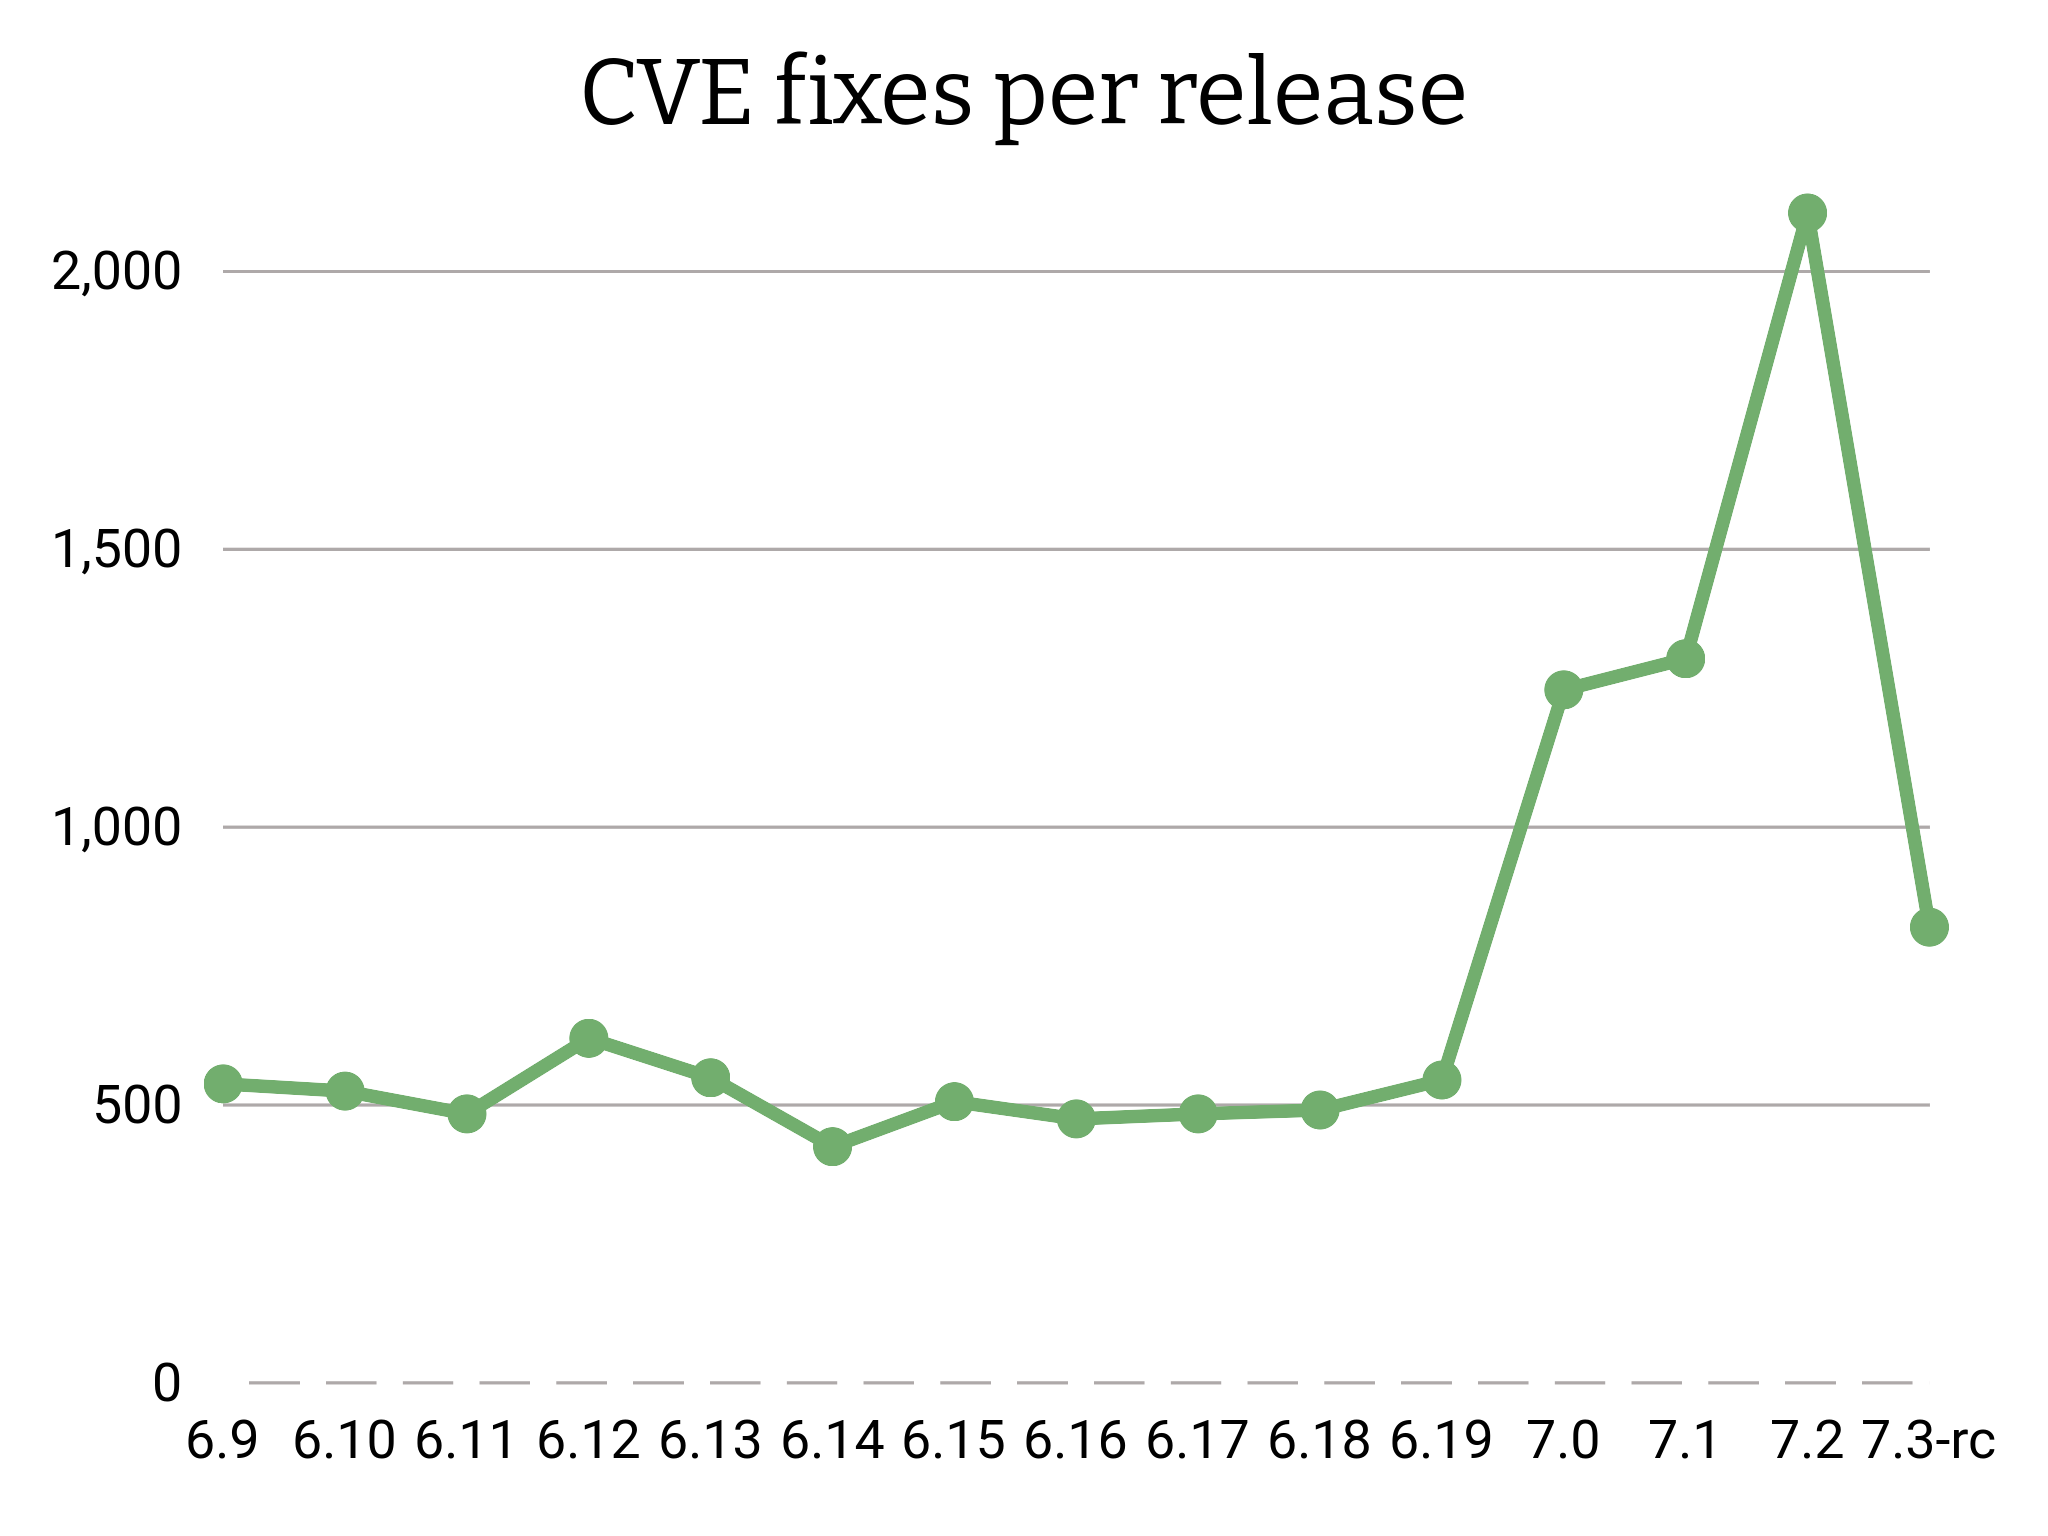
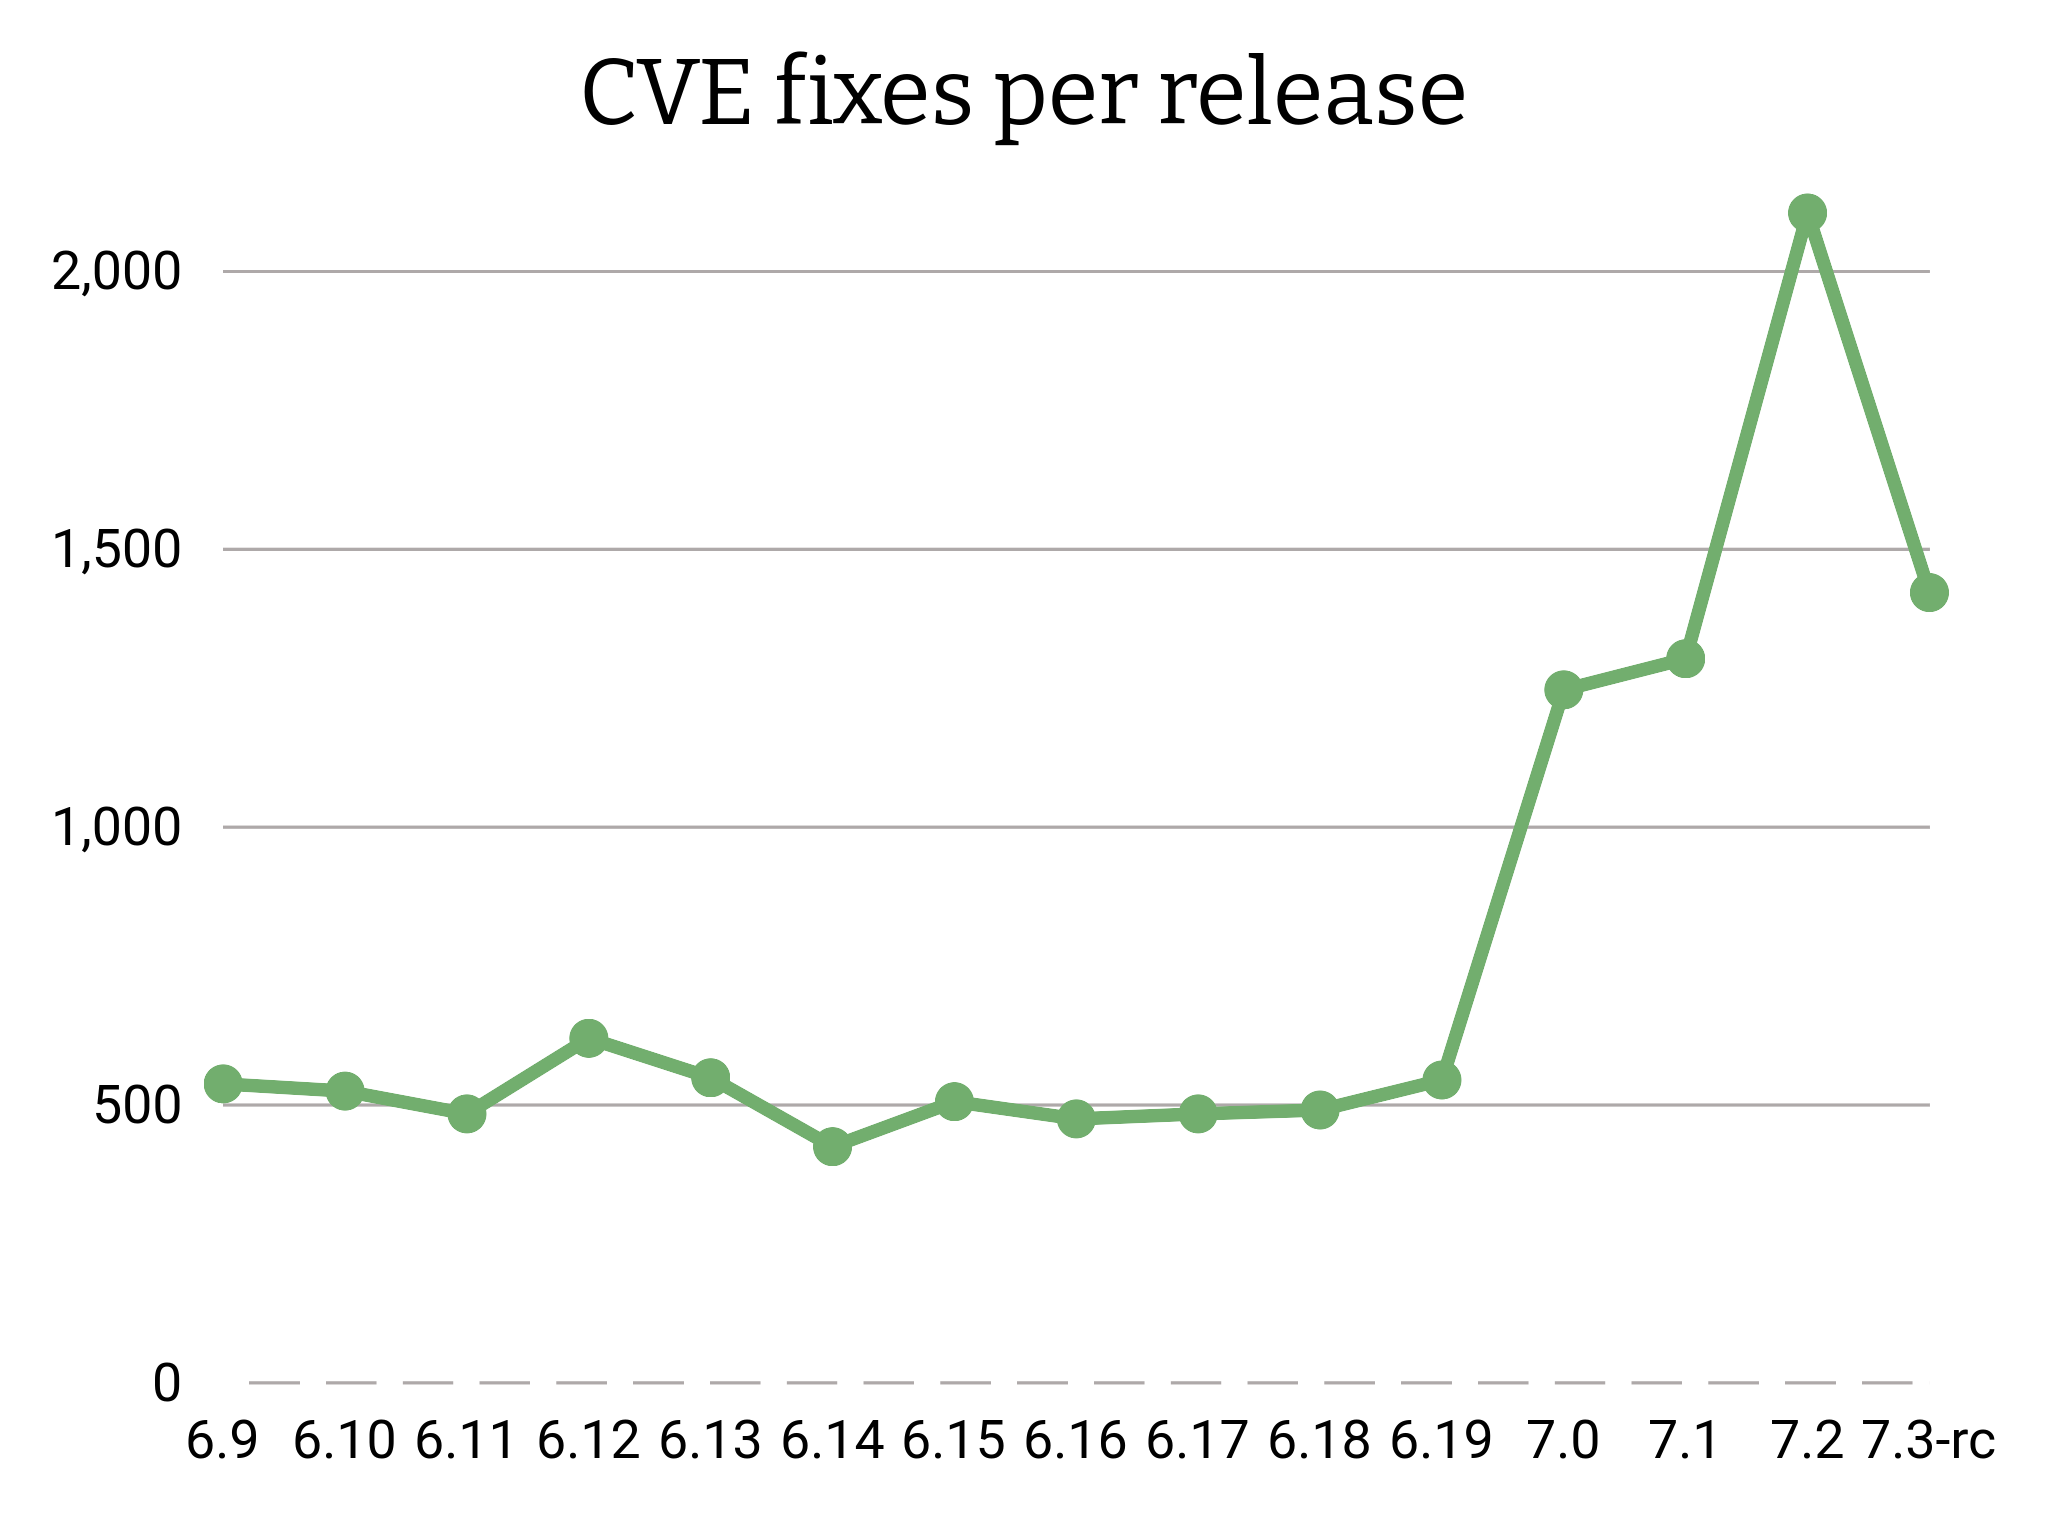
more graph updates

Changed region(s): [[0.875, 0.1562, 0.9688, 0.5625], [0.9375, 0.5625, 0.9688, 0.625]]

diff --git a/graphs/patches_per_release/cves_per_release.rb b/graphs/patches_per_release/cves_per_release.rb
@@ -48,7 +48,7 @@ g.data(' ', [
         1247,
         1303,
         2105,
-        820],
+        1422],
 	'#72AE6E') # green
 
 g.write('cves_fixed_per_release.png')
